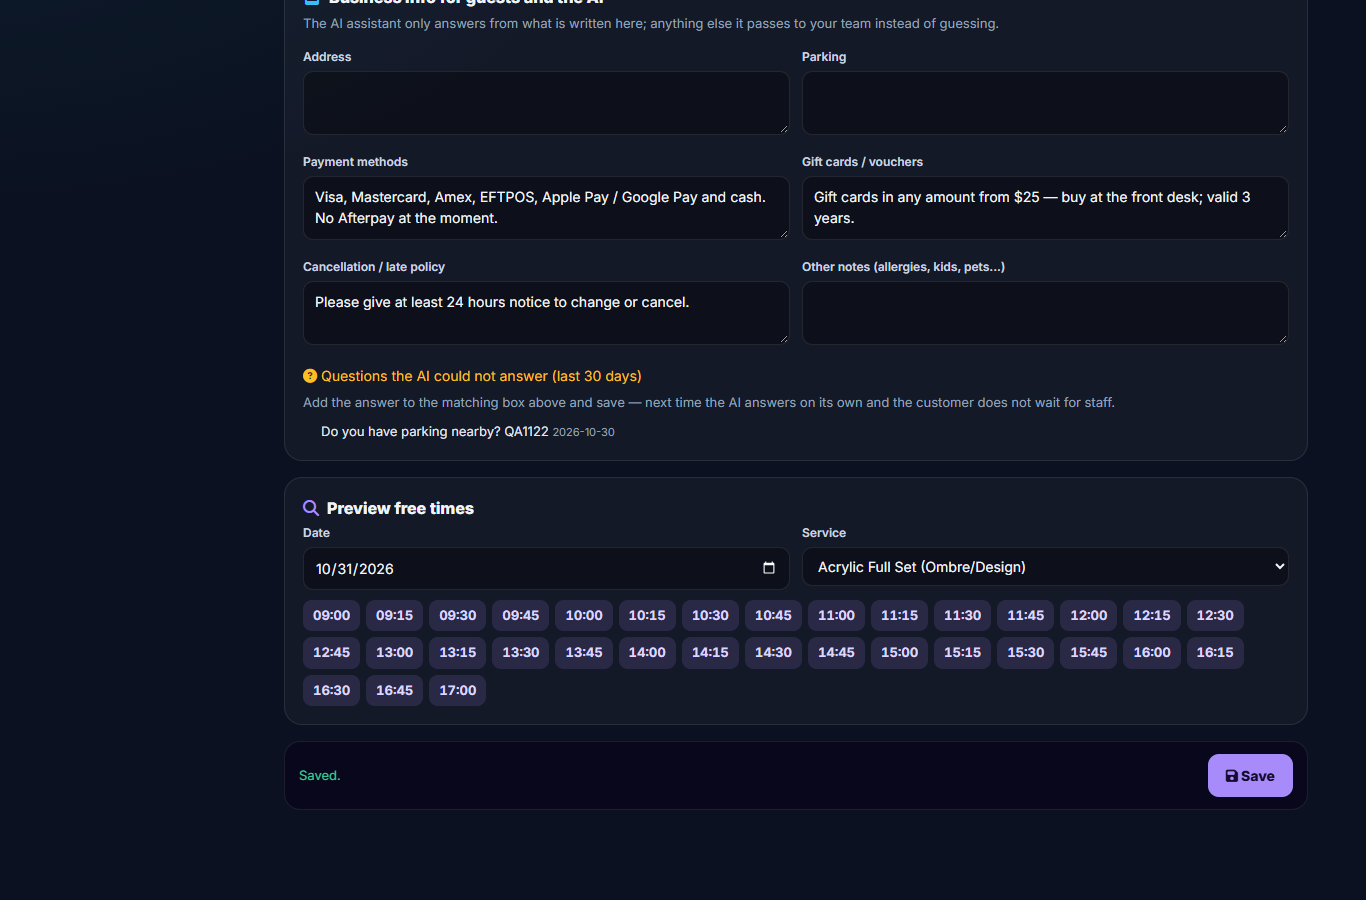
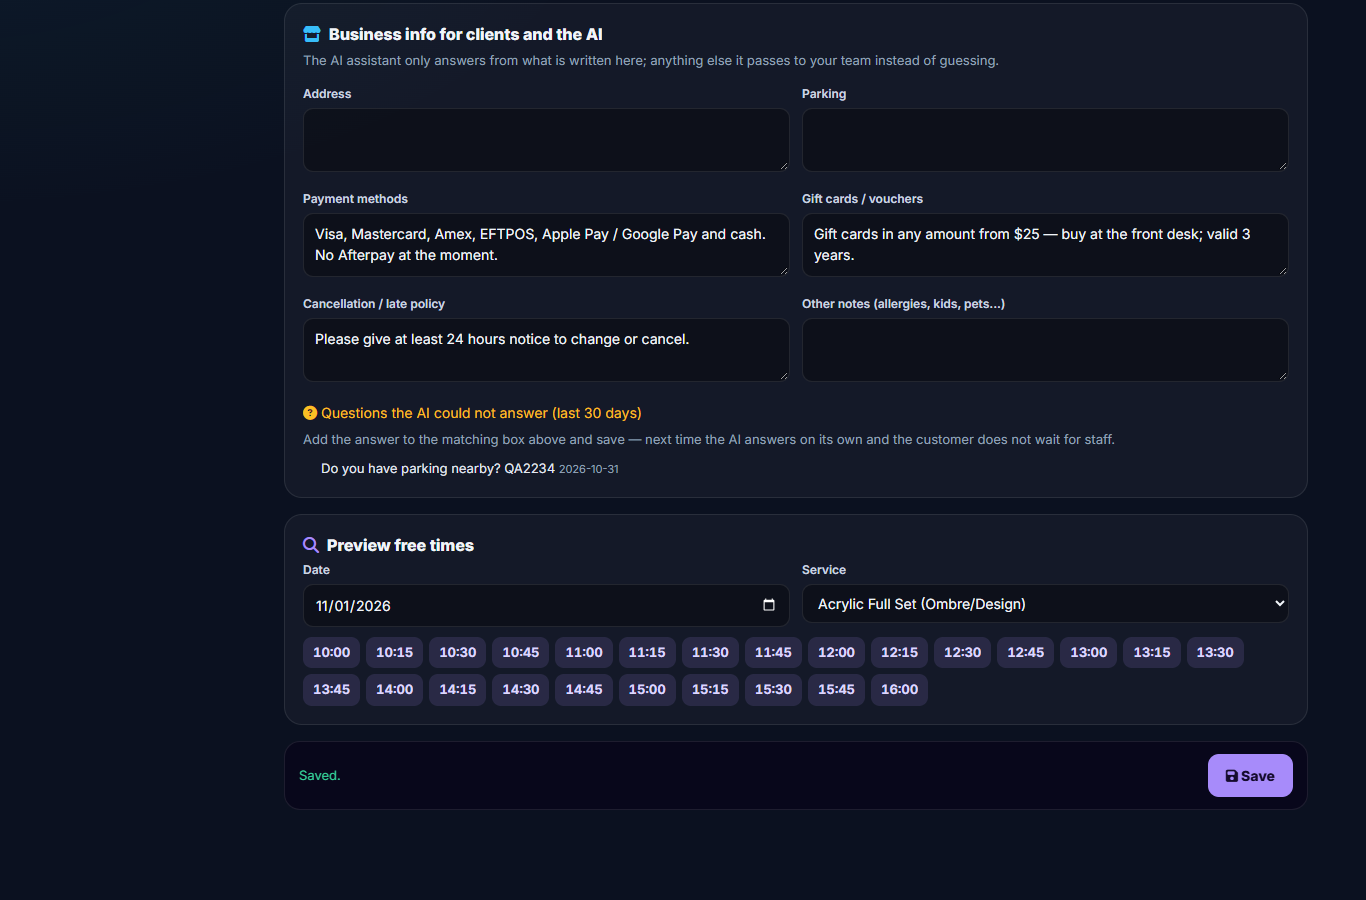
WIP: ban giao du an dang do

diff --git a/mobile_app/store_assets/google_play/listing.md b/mobile_app/store_assets/google_play/listing.md
@@ -1,0 +1,72 @@
+# BitPaw Software — Google Play store listing
+
+App name (30): BitPaw Software
+Package: com.bitpawsoftware.bitpaw_mobile
+Category: Business
+Contact email: support@bitpawsoftware.com
+Website: https://www.bitpawsoftware.com
+Privacy policy: https://www.bitpawsoftware.com/privacy
+Account deletion: https://www.bitpawsoftware.com/account/delete
+Icon: icon_512.png · Feature graphic: ../google_play_feature_graphic_1024x500.png · Phone screenshots: ../android_phone/*.png
+
+## en-US
+
+Short description (80):
+POS, online booking, staff attendance and payroll for salons and small business
+
+Full description:
+BitPaw Software is the business app for owners and staff who already use BitPaw on the web. Sign in with your BitPaw account to run your shop from your phone.
+
+FOR OWNERS AND MANAGERS
+• Point of sale: open tickets, add services or products, discounts, refunds and receipts
+• Online booking: see and manage appointments and reservations from your booking page
+• Customers: customer list, visit history and notes
+• Staff: attendance with photo and GPS check-in, time sheets, commission and payroll
+• Reports: sales and staff performance in your own currency
+• Messaging inbox: replies to customers from your connected channels in one place
+
+FOR STAFF
+• Clock in and out from your phone
+• See your schedule, jobs and earnings
+• Request leave and reimbursements
+
+BUILT FOR MANY KINDS OF BUSINESS
+Nail salons, spas, restaurants and cafés, karaoke and billiards, hotels, retail stores, technical and repair services, workshops and offices — each with screens made for how that business works.
+
+GOOD TO KNOW
+• You need a BitPaw account. Your shop owner can add you as staff.
+• Camera and location are used only when you check in for a shift or attach a photo, and only after you allow them.
+• Your data stays in your BitPaw account. You can request account deletion at https://www.bitpawsoftware.com/account/delete
+
+Questions? Email support@bitpawsoftware.com
+
+## vi-VN
+
+Short description (80):
+POS, đặt lịch online, chấm công và tính lương cho tiệm và doanh nghiệp nhỏ
+
+Full description:
+BitPaw Software là ứng dụng quản lý dành cho chủ tiệm và nhân viên đang dùng BitPaw trên web. Đăng nhập bằng tài khoản BitPaw để quản lý tiệm ngay trên điện thoại.
+
+CHO CHỦ TIỆM / QUẢN LÝ
+• Bán hàng (POS): mở phiếu, thêm dịch vụ hoặc sản phẩm, giảm giá, hoàn tiền, hoá đơn
+• Đặt lịch online: xem và quản lý lịch hẹn, đặt chỗ từ trang đặt lịch của tiệm
+• Khách hàng: danh sách khách, lịch sử ghé tiệm, ghi chú
+• Nhân viên: chấm công bằng ảnh và GPS, bảng công, hoa hồng và lương
+• Báo cáo: doanh thu và hiệu suất nhân viên theo đúng đơn vị tiền của tiệm
+• Hộp thư: trả lời khách từ các kênh đã kết nối trong một chỗ
+
+CHO NHÂN VIÊN
+• Chấm công vào/ra ngay trên điện thoại
+• Xem lịch làm, công việc và thu nhập
+• Gửi đơn xin nghỉ và hoàn ứng
+
+PHÙ HỢP NHIỀU NGÀNH
+Tiệm nail, spa, nhà hàng – quán cà phê, karaoke – bi-a, khách sạn, cửa hàng bán lẻ, dịch vụ kỹ thuật – sửa chữa, xưởng sản xuất và văn phòng — mỗi ngành có màn hình riêng theo đúng cách làm việc của ngành đó.
+
+LƯU Ý
+• Cần có tài khoản BitPaw. Chủ tiệm có thể thêm bạn làm nhân viên.
+• Camera và vị trí chỉ dùng khi bạn chấm công hoặc đính kèm ảnh, và chỉ sau khi bạn cho phép.
+• Dữ liệu nằm trong tài khoản BitPaw của bạn. Yêu cầu xoá tài khoản tại https://www.bitpawsoftware.com/account/delete
+
+Cần hỗ trợ? Email support@bitpawsoftware.com
